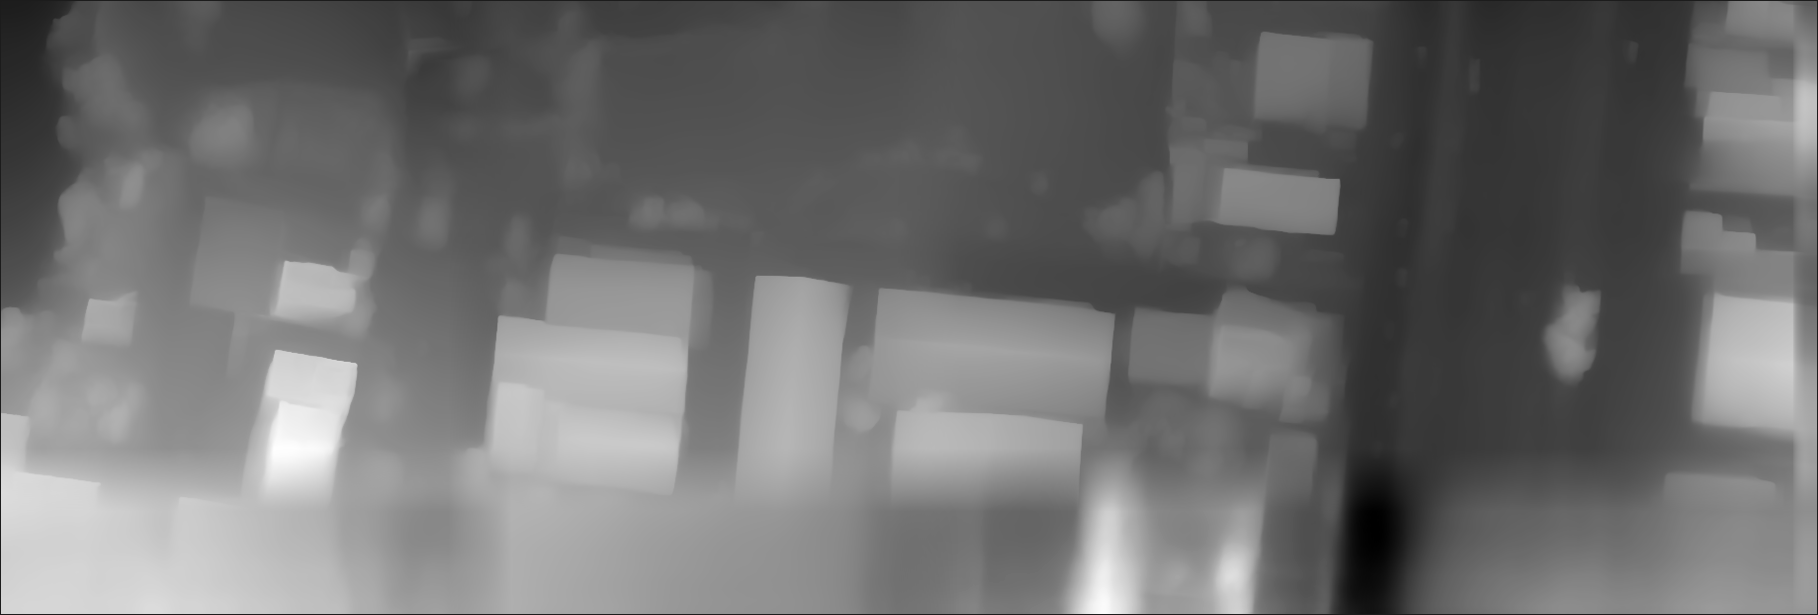
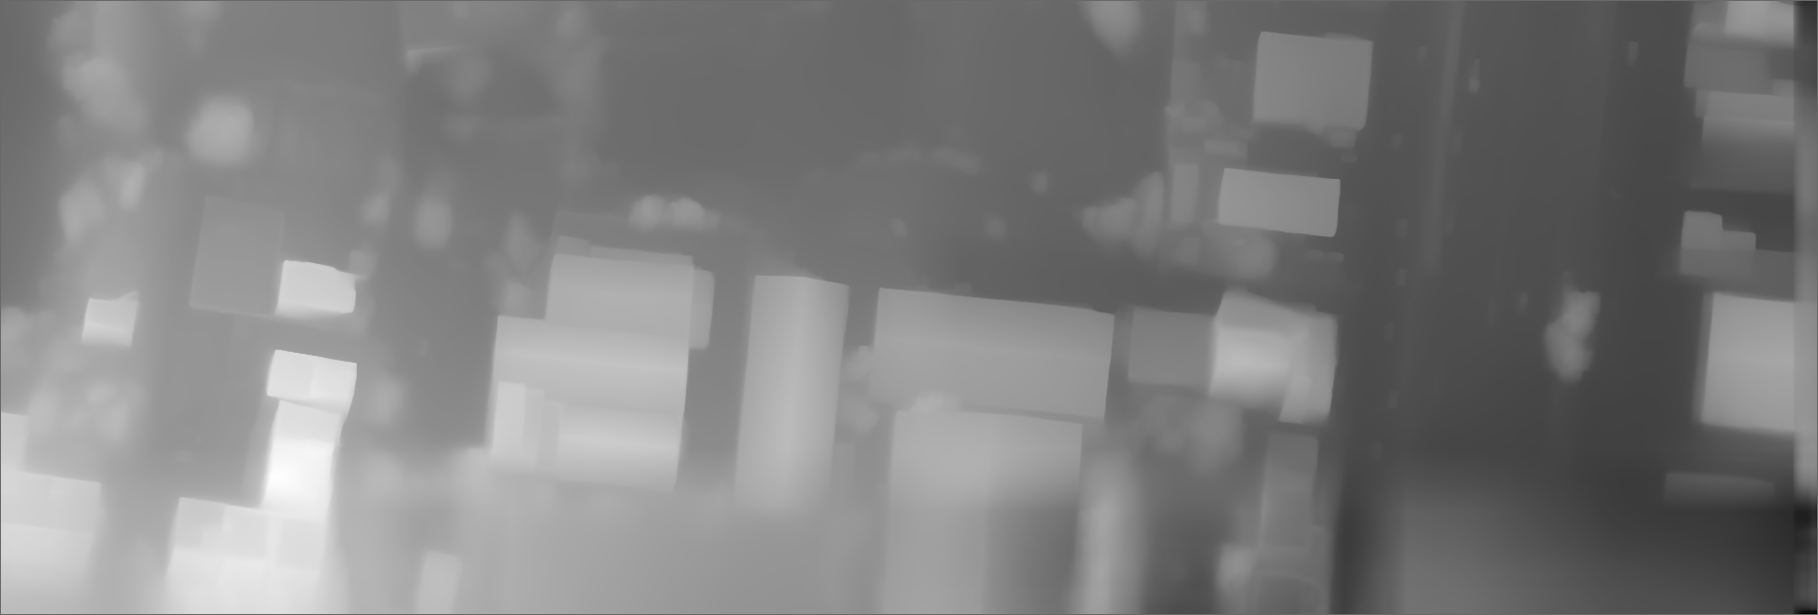
Switch default depth model to Base for better city-terrain accuracy; regenerate samples

diff --git a/backend/api.py b/backend/api.py
@@ -7,6 +7,7 @@ import io
 
 from tile_and_stitch import tile_image, stitch_tiles
 from transformers import pipeline
+from model_config import MODEL_ID
 
 app = FastAPI(title="SatQuery AI - Depth Backend")
 
@@ -19,7 +20,7 @@ app.add_middleware(
 # Load the model ONCE when the server starts, not on every request
 # (loading it per-request would make every call painfully slow)
 print("Loading depth model at startup...")
-depth_pipe = pipeline(task="depth-estimation", model="depth-anything/Depth-Anything-V2-Small-hf")
+depth_pipe = pipeline(task="depth-estimation", model=MODEL_ID)
 print("Model ready.")
 
 

diff --git a/backend/generate_samples.py b/backend/generate_samples.py
@@ -3,6 +3,8 @@ from PIL import Image
 import numpy as np
 from tile_and_stitch import tile_image, stitch_tiles
 from transformers import pipeline
+from model_config import MODEL_ID
+
 
 # (source filename in data/, output name to use in sample-outputs/)
 IMAGES = [
@@ -19,7 +21,7 @@ OUTPUT_DIR = "../data/sample-outputs"
 os.makedirs(OUTPUT_DIR, exist_ok=True)
 
 print("Loading model...")
-pipe = pipeline(task="depth-estimation", model="depth-anything/Depth-Anything-V2-Small-hf")
+pipe = pipeline(task="depth-estimation", model=MODEL_ID)
 print("Model ready.\n")
 
 for filename, label in IMAGES:

diff --git a/backend/model_config.py b/backend/model_config.py
@@ -1,0 +1,3 @@
+# Single source of truth for which depth model the whole pipeline uses.
+# Change this one line to switch models everywhere - api.py, generate_samples.py, etc.
+MODEL_ID = "depth-anything/Depth-Anything-V2-Base-hf"
